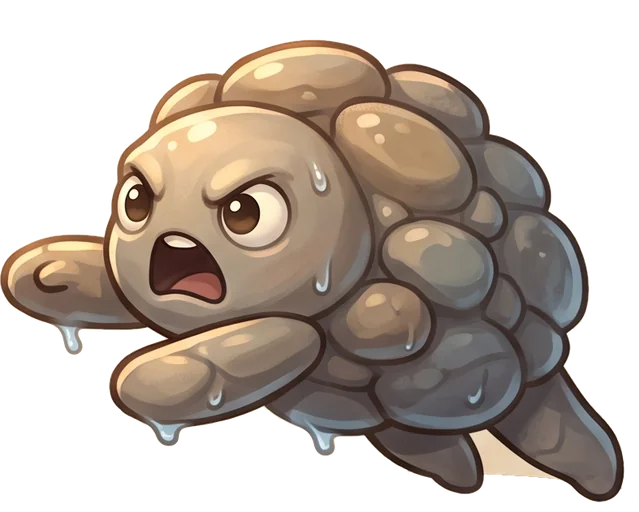
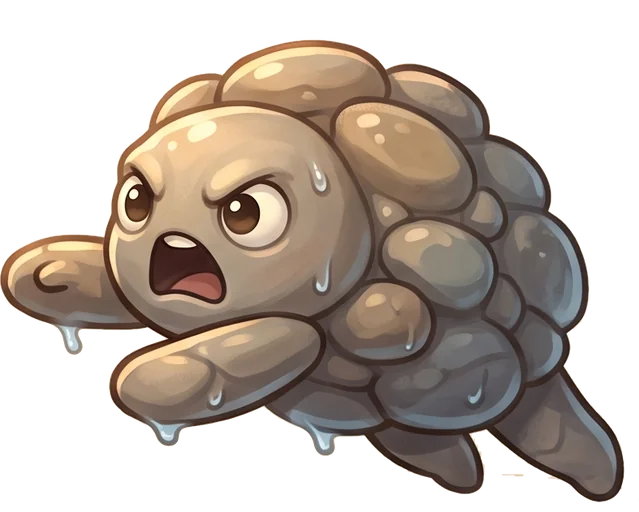
fix(랭킹): 랭킹 화면을 여는 것만으로 자기 진행도가 1 로 지워졌다
## 무슨 일이 있었나
랭킹 프로필(PvpProfile)을 호출부 네 곳이 **각자 손으로** 채우고 있었다.
그런데 `leaderboard()` 는 조회 **전에** 내 프로필을 서버에 upsert 한다.
myRankProvider 가 트로피·닉네임만 넘겨서, 안 넘긴 축이 기본값
(레벨 1·스테이지 1·회차 0)으로 **서버를 덮어썼다**.
→ 랭킹 화면을 열기만 해도 내 진행도가 1 이 된다. 채팅에는 있는 사람이
   진행도 랭킹에서 사라진 이유다(2026-09-09 제보).

`pushTrophies` 도 이름 그대로 트로피만 올리고 있었다 — 인터페이스 주석은
"세 축을 모두 올린다"고 적혀 있는데 구현이 안 따랐다. 결투를 안 하는 유저의
레벨·진행도가 서버에서 영영 낡은 채 남는다.

## 고친 방법
호출부마다 채우는 걸 막는다 — `PvpProfile.me(save)` 하나로 모은다.
축을 늘릴 때 고칠 자리도 여기 하나다.
supabase 백엔드의 upsert 두 곳도 세 축을 다 올린다.
회귀 테스트: 기본값(1·1·0)으로 떨어지지 않는지 검사한다.

Claude-Session: https://claude.ai/code/session_019feDqK65JZoGFst1VShvSB

Changed region(s): [[0.7433, 0.8438, 0.8623, 0.9375]]

diff --git a/packages/app/lib/features/leaderboard/leaderboard_screen.dart b/packages/app/lib/features/leaderboard/leaderboard_screen.dart
@@ -18,6 +18,11 @@ const _honey = Color(0xFFEBA52F);
 
 /// 로그인(비익명) 시 내 현재 랭킹. 미로그인·실패·미확정이면 null.
 /// 트로피/닉네임이 바뀔 때만 재조회(select) — 매 세이브마다 네트워크 호출 방지.
+///
+/// ⚠ **레벨·진행도까지 넘겨야 한다.** `leaderboard()` 는 조회 전에 내 프로필을
+/// upsert 하는데, 여기서 안 넘기면 `PvpProfile` 기본값(레벨 1·스테이지 1·회차 0)이
+/// 그대로 서버를 덮어쓴다. 랭킹 화면을 여는 것만으로 자기 진행도가 1 로
+/// 지워져서, 채팅에는 있는 사람이 진행도 랭킹에서는 사라졌다(2026-09-09 제보).
 final myRankProvider = FutureProvider<int?>((ref) async {
   final auth = ref.watch(authServiceProvider);
   if (!auth.available || !auth.isSignedIn) return null;
@@ -27,10 +32,13 @@ final myRankProvider = FutureProvider<int?>((ref) async {
   final nickname = ref.watch(
     saveControllerProvider.select((s) => s.asData?.value.nickname ?? ''),
   );
+  final save = ref.read(saveControllerProvider).value;
   final backend = ref.watch(pvpBackendProvider);
   try {
     final board = await backend.leaderboard(
-      me: PvpProfile(id: 'me', nickname: nickname, trophies: trophies),
+      me: save == null
+          ? PvpProfile(id: 'me', nickname: nickname, trophies: trophies)
+          : PvpProfile.me(save),
       limit: 50,
     );
     if (!board.live) return null; // 폴백(NPC)은 순위로 쓰지 않는다
@@ -207,14 +215,7 @@ class _LeaderboardScreenState extends ConsumerState<LeaderboardScreen> {
     final cfg = data.battleConfig ?? const BattleConfig();
     final rules = data.chatRules ?? const ChatRules();
     final backend = ref.watch(pvpBackendProvider);
-    final me = PvpProfile(
-      id: 'me',
-      nickname: save.nickname,
-      trophies: save.pvpTrophies,
-      level: save.level,
-      stageNumber: save.stageNumber,
-      difficultyTier: save.difficultyTier,
-    );
+    final me = PvpProfile.me(save);
 
     return Scaffold(
       appBar: AppBar(title: Text(l.rankingTitle)),

diff --git a/packages/app/test/ranking_tier_test.dart b/packages/app/test/ranking_tier_test.dart
@@ -1,4 +1,5 @@
 import 'package:app/domain/pvp_backend.dart';
+import 'package:core_save/core_save.dart';
 import 'package:flutter_test/flutter_test.dart';
 
 /// 회차제(쉬움 1-1000 → 보통 1부터)를 넣으면서, 진행도 랭킹이 스테이지 숫자만
@@ -65,5 +66,43 @@ void main() {
       p(1, 30).scoreFor(RankingKind.level),
       greaterThan(p(1, 29).scoreFor(RankingKind.level)),
     );
+  });
+
+  group('PvpProfile.me — 세 축을 빠뜨리지 않는다', () {
+    // ⚠ 이 검사가 지키는 사고: 랭킹 프로필을 호출부마다 손으로 채우던 시절,
+    // 빠뜨린 축이 기본값(레벨 1·스테이지 1)으로 **서버를 덮어썼다**.
+    // 랭킹 화면을 여는 것만으로 자기 진행도가 1 이 되어, 채팅에는 있는
+    // 사람이 진행도 랭킹에서 사라졌다(2026-09-09).
+    SaveGame sample() =>
+        SaveGame.initial(createdAt: DateTime.utc(2026)).copyWith(
+          nickname: '나',
+          pvpTrophies: 1234,
+          level: 42,
+          stageNumber: 777,
+          difficultyTier: 2,
+        );
+
+    test('세이브의 값이 그대로 실린다', () {
+      final me = PvpProfile.me(sample());
+      expect(me.nickname, '나');
+      expect(me.trophies, 1234);
+      expect(me.level, 42);
+      expect(me.stageNumber, 777);
+      expect(me.difficultyTier, 2);
+    });
+
+    test('기본값(1·1·0)으로 떨어지지 않는다 — 서버를 덮어쓰면 진행도가 지워진다', () {
+      final me = PvpProfile.me(sample());
+      expect(me.level, isNot(1));
+      expect(me.stageNumber, isNot(1));
+      expect(me.difficultyTier, isNot(0));
+    });
+
+    test('세 축 모두 랭킹 점수에 반영된다', () {
+      final me = PvpProfile.me(sample());
+      expect(me.scoreFor(RankingKind.trophies), 1234);
+      expect(me.scoreFor(RankingKind.level), greaterThan(0));
+      expect(me.scoreFor(RankingKind.stage), greaterThan(0));
+    });
   });
 }

diff --git a/packages/app/lib/domain/pvp_backend.dart b/packages/app/lib/domain/pvp_backend.dart
@@ -1,6 +1,7 @@
 import 'dart:math';
 
 import 'package:core_models/core_models.dart';
+import 'package:core_save/core_save.dart';
 import 'package:flutter_riverpod/flutter_riverpod.dart';
 
 /// 비동기 PvP·리더보드 백엔드 추상화 (Phase 4).
@@ -38,6 +39,21 @@ class PvpProfile {
     this.stageNumber = 1,
     this.difficultyTier = 0,
   });
+
+  /// 내 세이브에서 랭킹 프로필을 만든다.
+  ///
+  /// ⚠ **손으로 채우지 말 것.** 세 축(트로피·레벨·진행도)을 각 호출부가
+  /// 따로 채우던 시절, 빠뜨린 축이 기본값(레벨 1·스테이지 1)으로 서버를
+  /// 덮어썼다 — 랭킹 화면을 여는 것만으로 자기 진행도가 1 이 됐다
+  /// (2026-09-09). 축을 늘릴 때 고칠 자리도 여기 하나여야 한다.
+  factory PvpProfile.me(SaveGame save) => PvpProfile(
+    id: 'me',
+    nickname: save.nickname,
+    trophies: save.pvpTrophies,
+    level: save.level,
+    stageNumber: save.stageNumber,
+    difficultyTier: save.difficultyTier,
+  );
 
   final String id;
   final String nickname;

diff --git a/packages/app/lib/domain/supabase_pvp_backend.dart b/packages/app/lib/domain/supabase_pvp_backend.dart
@@ -147,10 +147,16 @@ class SupabasePvpBackend implements PvpBackend {
     final uid = _client.auth.currentUser?.id;
     if (uid == null) return;
     try {
+      // ⚠ **세 축을 모두** 올린다. 트로피만 올리던 시절엔 결투를 안 하는 유저의
+      // 레벨·진행도가 서버에서 낡은 채(또는 기본값 1) 남아 진행도 랭킹에서
+      // 사실상 사라졌다 — 랭킹 3축을 만든 이유가 무너진다(2026-09-09 제보).
       await _client.from('profiles').upsert({
         'id': uid,
         'nickname': me.nickname,
         'trophies': me.trophies,
+        'level': me.level,
+        'stage': me.stageNumber,
+        'tier': me.difficultyTier,
       });
       await _client
           .from('defenders')
@@ -174,6 +180,9 @@ class SupabasePvpBackend implements PvpBackend {
         'id': uid,
         'nickname': me.nickname,
         'trophies': me.trophies,
+        'level': me.level,
+        'stage': me.stageNumber,
+        'tier': me.difficultyTier,
       });
       final rows =
           (await _client.rpc(

diff --git a/packages/app/lib/domain/server_sync.dart b/packages/app/lib/domain/server_sync.dart
@@ -199,18 +199,7 @@ class ServerSaveUploader {
     _rankPushedAt = now;
     final backend = _ref.read(pvpBackendProvider);
     if (!backend.isRemote) return;
-    unawaited(
-      backend.pushTrophies(
-        me: PvpProfile(
-          id: 'me',
-          nickname: save.nickname,
-          trophies: save.pvpTrophies,
-          level: save.level,
-          stageNumber: save.stageNumber,
-          difficultyTier: save.difficultyTier,
-        ),
-      ),
-    );
+    unawaited(backend.pushTrophies(me: PvpProfile.me(save)));
   }
 
   /// 변경분이 있으면 서버에 올린다. 이미 올린 상태면 건너뛴다.

diff --git a/packages/app/lib/ui/rank_popup.dart b/packages/app/lib/ui/rank_popup.dart
@@ -23,13 +23,7 @@ Future<void> showRankPopupOnStart(BuildContext context, WidgetRef ref) async {
   final backend = ref.read(pvpBackendProvider);
   if (!backend.isRemote) return;
 
-  final rank = await backend.myRank(
-    me: PvpProfile(
-      id: 'me',
-      nickname: save.nickname,
-      trophies: save.pvpTrophies,
-    ),
-  );
+  final rank = await backend.myRank(me: PvpProfile.me(save));
   if (rank == null || !context.mounted) return;
 
   final report = await RankHistory.instance.record(

diff --git a/packages/app/lib/features/battle/battle_screen.dart b/packages/app/lib/features/battle/battle_screen.dart
@@ -338,8 +338,7 @@ class _BattleScreenState extends ConsumerState<BattleScreen> {
 
   double _power(BattleBug b) => b.atk + b.def + b.spd + b.maxHp * 0.15;
 
-  PvpProfile _me(SaveGame save) =>
-      PvpProfile(id: 'me', nickname: save.nickname, trophies: save.pvpTrophies);
+  PvpProfile _me(SaveGame save) => PvpProfile.me(save);
 
   /// 성충 개체 목록.
   List<IndividualBug> _adults(SaveGame save, GameData data, DateTime now) {

diff --git a/tool/import_monsters.py b/tool/import_monsters.py
@@ -64,6 +64,11 @@ SHADOW_OFF = {'rock', 'pebble'}
 # (그림자 187,157,133 vs 다리 131,109,93 — 거리 144). 색 하나로 가른다.
 FLAT_SHADOW = {'pebble'}
 
+# 색 규칙을 끄면 **팔 사이처럼 둘러싸인 배경**이 남는다(모서리에서 흘려보내기로는
+# 못 닿는다). 돌 몬스터는 몸의 밝은 면도 배경색에 가깝지만, 그건 **작고 흩어져**
+# 있고 둘러싸인 배경은 **크고 이어져** 있다. 크기로 가른다.
+POCKET = {'rock': 1500, 'pebble': 1500}
+
 # basalt 시트만 액자형 회색 패널 위에 그려져 있다 — 흰 여백에서 패널로
 # 이어 흘려보내야 해서 문턱을 크게 잡는다(몸은 훨씬 어두워 거기서 멈춘다).
 FLOOD_THRESH = {
@@ -121,6 +126,49 @@ def bg_like(a, bg, same_thresh=40, shadow=True):
     if not shadow:
         shade = np.zeros(same.shape, bool)
     return same | shade
+
+
+def pockets(a, bg, keep, min_area, tol=30, grid=256):
+    """둘러싸인 배경(팔 사이 등)만 골라 지운다.
+
+    배경색에 가까운 픽셀 중 **크게 이어진 덩어리**만 배경으로 본다.
+    몸의 밝은 면은 배경색에 가까워도 잘게 흩어져 있어 살아남는다.
+    """
+    near = (np.abs(a - bg).sum(axis=2) < tol) & keep
+    h, w = near.shape
+    small = np.array(
+        Image.fromarray((near * 255).astype(np.uint8), 'L').resize(
+            (grid, grid), Image.NEAREST
+        )
+    ) > 0
+    seen = np.zeros((grid, grid), bool)
+    out = np.zeros((grid, grid), bool)
+    scale = (h / grid) * (w / grid)
+    for sy in range(grid):
+        for sx in range(grid):
+            if not small[sy, sx] or seen[sy, sx]:
+                continue
+            q = deque([(sy, sx)])
+            seen[sy, sx] = True
+            cells = []
+            while q:
+                y, x = q.popleft()
+                cells.append((y, x))
+                for dy, dx in ((1, 0), (-1, 0), (0, 1), (0, -1)):
+                    ny, nx = y + dy, x + dx
+                    if (0 <= ny < grid and 0 <= nx < grid
+                            and small[ny, nx] and not seen[ny, nx]):
+                        seen[ny, nx] = True
+                        q.append((ny, nx))
+            if len(cells) * scale >= min_area:
+                for y, x in cells:
+                    out[y, x] = True
+    up = np.array(
+        Image.fromarray((out * 255).astype(np.uint8), 'L').resize(
+            (w, h), Image.NEAREST
+        )
+    ) > 0
+    return up & near
 
 
 def flat_shadow(a, keep, band=0.30, tol=8, min_area=3000):
@@ -210,6 +258,8 @@ def cut(path, mid):
         a = np.array(q).astype(int)
         keep &= ~bg_like(a, bg_of(a), SAME_THRESH.get(mid, 40),
                          shadow=mid not in SHADOW_OFF)
+        if mid in POCKET:
+            keep &= ~pockets(a, bg_of(a), keep, POCKET[mid])
         if mid in FLAT_SHADOW:
             keep &= ~flat_shadow(a, keep)
         if mid in DROP_ISLANDS:
